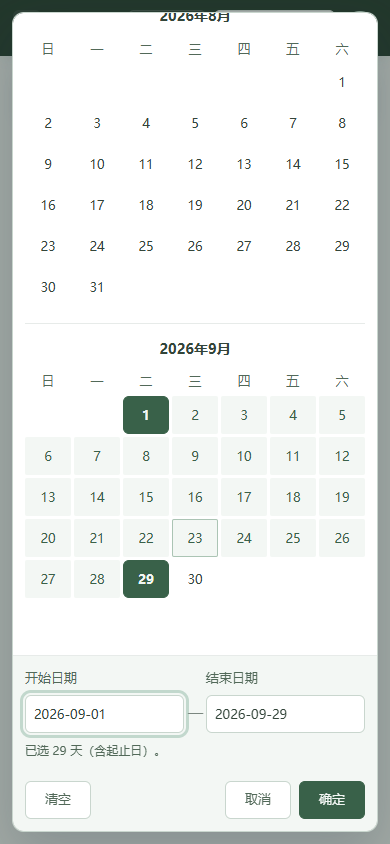
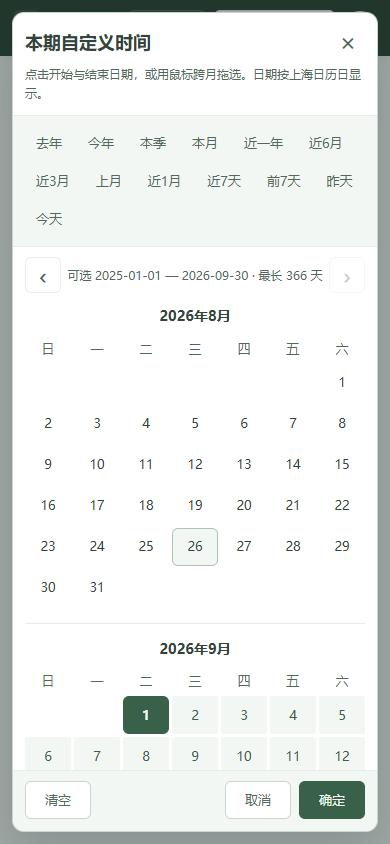
fix(netshop): keep calendar title and actions visible on narrow screens

diff --git a/app/netshop/comparison/demo/date-picker.js b/app/netshop/comparison/demo/date-picker.js
@@ -326,7 +326,8 @@
       <footer class="comparison-date-picker__footer"><button type="button" data-date-action="clear" data-testid="date-clear">清空</button><div><button type="button" data-date-action="cancel" data-testid="date-cancel">取消</button><button type="button" class="comparison-date-picker__apply" data-date-action="apply" data-testid="date-apply">确定</button></div></footer>`;
     renderCalendars();
     dialog.showModal();
-    dialog.querySelector('[data-date-action="start-input"]').focus();
+    dialog.scrollTop = 0;
+    dialog.querySelector('.comparison-date-picker__close').focus({ preventScroll: true });
     return snapshot();
   }
 

diff --git a/app/netshop/comparison/demo/date-picker.css b/app/netshop/comparison/demo/date-picker.css
@@ -88,3 +88,5 @@
   .comparison-date-picker .comparison-date-picker__footer { padding: 10px 12px 12px; }
 }
 .comparison-date-picker .comparison-date-picker__day { font-size: var(--font-size-label, 13px); }
+.comparison-date-picker .comparison-date-picker__header { position: sticky; top: 0; z-index: 2; background: var(--color-bg-surface, #fff); }
+.comparison-date-picker .comparison-date-picker__footer { position: sticky; bottom: 0; z-index: 2; border-top: 1px solid var(--color-border-default, #e7ebe9); }
